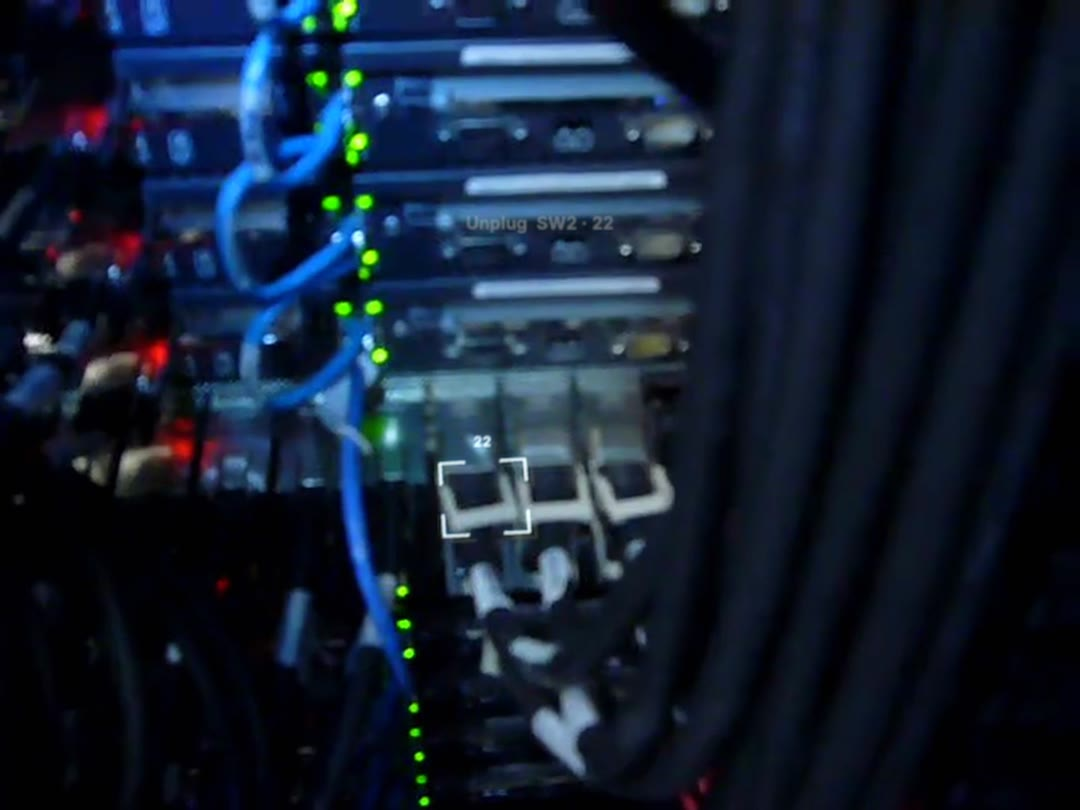
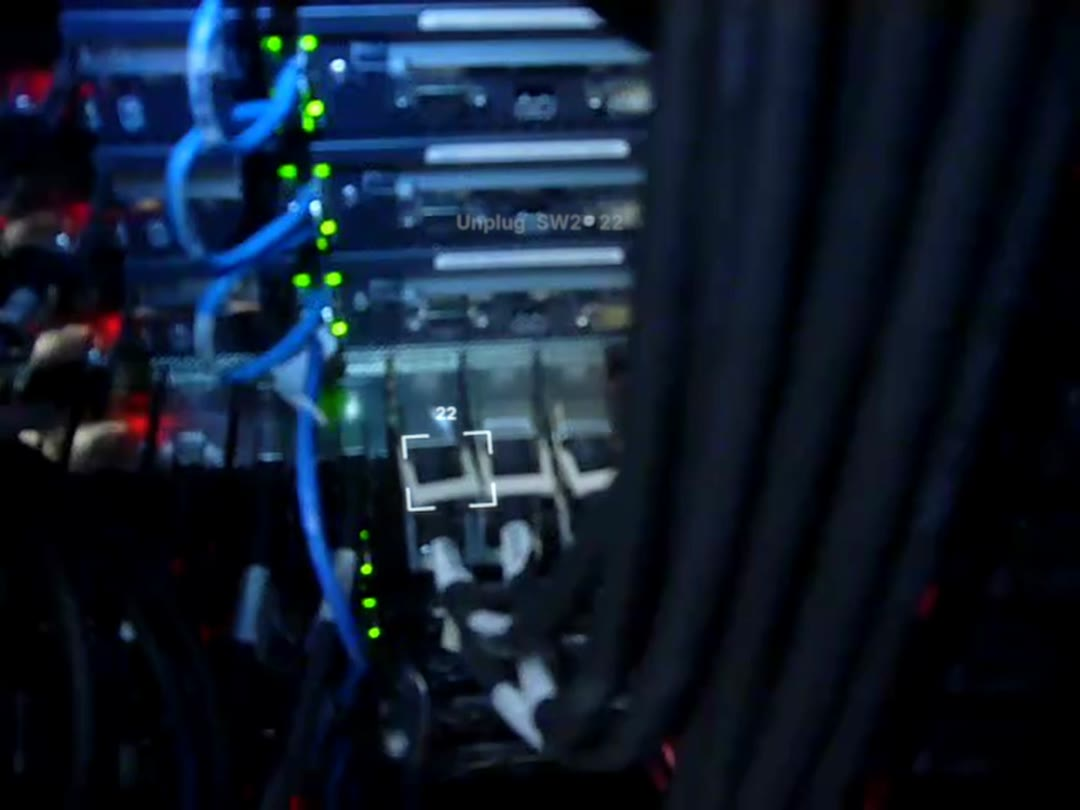
AR cabling sim: fixes from the second review pass
Step-aside timer runs from target lock, not line onset; a verified
step's line stays aside; new targets wait for the previous confirmation
to clear (no overlap); ghost 1.2% linear; visor veil cut to ~0.2% of
scene mean; rainbow flare off for this scene; larger tags and line.

Claude-Session: https://claude.ai/code/session_015k1a4b5z1G8KLFE5QHDNGj

diff --git a/docs/arhud-dc/arhud_dc/render.py b/docs/arhud-dc/arhud_dc/render.py
@@ -162,21 +162,27 @@ class Renderer:
         ly = y0 + (y1 - y0) * self.cfg.get("line_y", 0.1)
         for ln in lines:
             level = ln["level"]
-            if ln["target"] is not None:
+            if ln["target"] in targets:
                 # once its target has been locked in view for a moment, the line steps aside: the brackets say it
-                level *= 1.0 - 0.85 * HUD.smoothstep(LINE_HIDE, LINE_HIDE + 0.5, ln["since"]) * self.locked(ln["target"], i)
+                lock = self.lock_time(ln["target"], i, targets[ln["target"]]["since"])
+                level *= 1.0 - 0.85 * HUD.smoothstep(LINE_HIDE, LINE_HIDE + 0.5, lock)
+            elif ln["verified"]:
+                level *= 0.15   # done and its confirmation gone: stay aside until the next step
             self._line(head, ln["e"], level, ((x0 + x1) / 2, ly))
         return world, head, vel
 
-    def locked(self, name, i, window=12):
-        """Fraction of the last `window` frames in which a port was tracked and inside the display's field."""
+    def lock_time(self, name, i, since):
+        """Seconds the port has been continuously tracked and inside the display's field (since its target began)."""
         p = self.sc.ports[name]
         Hs = self.Hs[p["plane"]]
         n = 0
-        for j in range(max(0, i - window + 1), i + 1):
-            if j < len(Hs) and Hs[j] is not None and self.disp.inside(_warp(Hs[j], p["quad"]).mean(axis=0)):
-                n += 1
-        return n / window
+        limit = int(min(max(since, 0.0), LINE_HIDE + 0.6) * self.fps)
+        while n < limit and i - n >= 0:
+            j = i - n
+            if j >= len(Hs) or Hs[j] is None or not self.disp.inside(_warp(Hs[j], p["quad"]).mean(axis=0)):
+                break
+            n += 1
+        return n / self.fps
 
     def _line(self, layer, e, a, at):
         if a <= 0.0:

diff --git a/docs/arhud-dc/arhud_dc/scene.py b/docs/arhud-dc/arhud_dc/scene.py
@@ -79,8 +79,12 @@ class Scene:
             if e["t"] > t:
                 break
             if "target" in e:
-                targets[e["target"]] = {"label": e.get("label", ""), "since": t - e["t"], "done": None, "note": "",
-                                        "clear": 1.0}
+                # a new target waits for a confirmation it is pushing off to clear, so the two never overlap
+                busy = any(st["done"] is not None and st["done"] - (t - e["t"]) <= CONFIRM + FADE
+                           for st in targets.values())
+                delay = NEXT_CLEAR if busy else 0.0
+                targets[e["target"]] = {"label": e.get("label", ""), "since": t - e["t"] - delay, "done": None,
+                                        "note": "", "clear": 1.0}
             elif "done" in e and e["done"] in targets:
                 st = targets[e["done"]]
                 st["done"] = t - e["t"]
@@ -104,7 +108,8 @@ class Scene:
             level *= 1.0 - (1.0 - VERIFIED_DIM) * _smooth((t - done_t) / 0.2)
         if "hold" in e:
             level *= 1.0 - _smooth((t - e["t"] - e["hold"]) / 0.4)
-        return {"e": e, "level": max(0.0, level), "since": t - e["t"], "target": target}
+        return {"e": e, "level": max(0.0, level), "since": t - e["t"], "target": target,
+                "verified": done_t is not None}
 
 
 def _smooth(x):

diff --git a/docs/arhud-dc/arhud_dc/optics.py b/docs/arhud-dc/arhud_dc/optics.py
@@ -50,7 +50,8 @@ class Display:
         self.rect = (cx - hw, cy - hh, cx + hw, cy + hh)
         self.c = (cx, cy)
         self.gain = cfg.get("gain", 1.1)
-        gx, gy, gg = cfg.get("ghost_deg", [0.45, 0.35, 0.035])
+        # 1.2 % in linear light is already ~10 % in display code values: enough to see, not enough to double text
+        gx, gy, gg = cfg.get("ghost_deg", [0.45, 0.35, 0.012])
         self.ghost = (gx * self.ppd, gy * self.ppd, gg)
         self.dispersion = cfg.get("dispersion", 0.0016)
         self.defocus = cfg.get("defocus_px", 0.6)
@@ -59,7 +60,7 @@ class Display:
         self.noise = cfg.get("shot_noise", 0.012)
         self.shutter = cfg.get("shutter", 0.5)
         # the visor's veil scales with the light around: nothing in a dark aisle, a visible haze in a lit one
-        self.lift = np.array(cfg.get("visor_lift", [0.009, 0.010, 0.0125]), np.float32)
+        self.lift = np.array(cfg.get("visor_lift", [0.002, 0.0022, 0.0028]), np.float32)
         # the camera that filmed the world also filmed the display: its native resolution and 4:2:0 chroma
         self.native = cfg.get("native_size")
         self.chroma_blur = cfg.get("chroma_blur_px", 0.0)

diff --git a/docs/arhud-dc/README.md b/docs/arhud-dc/README.md
@@ -40,6 +40,15 @@ The video went through an independent frame-by-frame review with three lenses: o
 - three event times were corrected
 - port 24 got its own reference frame, to remove a 15 px drift
 
+A second, fresh review of the revised render confirmed all of these and found a few more, which are fixed too:
+
+- the line's step-aside timer now runs from when the target locks in view, not from when the line appears
+- the rainbow flare is off
+- the ghost was lowered
+- a new target now waits the 0.15 s for the previous confirmation to clear
+- tags and the line are slightly larger
+- the veil was cut again
+
 ## The HUD
 
 At most four things are ever on screen, and usually just the brackets and their tag:
@@ -64,14 +73,14 @@ The design follows the in-situ guidance literature: world-registered cues beat i
 The headset modelled is a binocular diffractive-waveguide display of the HoloLens 2 / Orion class, with a 44° × 28° field of view by default.
 
 - **Field of view.** The image exists only inside the display's field, which is much smaller than the camera's. Its edge is never drawn: content fades over the last ~1° and is cut there. With a phone or GoPro-linear camera, the display covers roughly the middle half of the frame.
-- **Additive light.** The display can only add light. Black is transparent, and the world behind is never dimmed. The marks pop against black switch faces and wash out against a lit white cold aisle. The visor adds a faint veil in proportion to the light around (about 1% of the scene's mean, so nearly nothing in a dark rack) and tints the world very slightly.
+- **Additive light.** The display can only add light. Black is transparent, and the world behind is never dimmed. The marks pop against black switch faces and wash out against a lit white cold aisle. The visor adds a faint veil in proportion to the light around (about 0.2% of the scene's mean: a code value or two over black in a lit aisle, nothing in a dark rack) and tints the world very slightly.
 - **Waveguide flaws.** Each is a few percent and fixed to the display, not the world:
   - colour drifts across the field in broad magenta, cyan and green lobes
   - the corners are about 30% dimmer than the centre
   - lateral colour puts red and blue a fraction of a pixel apart
-  - a ghost image sits about 0.6° off at 3.5%
+  - a ghost image sits about 0.6° off at 1.2% (in linear light; that is already about 10% in display code values)
   - a tight glow and a wide, low halo (σ ≈ 1°) surround bright strokes
-  - the gratings smear the overhead LED troffers into faint rainbow streaks inside the field
+  - the gratings smear bright light sources outside the line of sight, such as overhead LED troffers, into faint rainbow streaks inside the field. This is off in the decabling scene (`"flare": {"gain": 0}`), because the rack's lit faceplates turned it into smudges
 - **Focus.** The virtual image sits at about 2 m while the hands work at 0.5 m, so with the camera focused on the rack the HUD is slightly soft.
 - **Registration.** World-locked marks are drawn from the tracked pose, minus a few milliseconds of uncorrected render-to-photon latency, plus sub-pixel tremor. They sit still when the head is still and trail slightly in quick turns, as on real headsets. Hands and cables do not hide the marks: a see-through display draws on top of everything, and that is part of what makes it look real.
 - **The camera.** The HUD's light is resampled down to the source camera's pixel grid (`native_size`, 640 × 480 here) and back up the way the footage was, and its chroma is blurred as 4:2:0 recording would. That keeps it from being the sharpest thing in the frame. World-locked marks get the footage's full-shutter motion blur, with velocity taken as a central difference over the neighbouring frames. The camera's auto-exposure follows the scene: in a dim aisle it opens up and the HUD reads brighter, and panning onto a bright aisle dims it (about 0.4 s lag). The display's own ambient-light sensor works the other way and dims the display in the dark, so the scene uses a weak coupling (`exposure_k` 0.15) and `gain` 0.95 for this dark rack. That keeps the strokes reading as translucent light rather than white paint. World-locked marks get the same motion blur as the footage. Shot noise is added to the display's light, and a soft shoulder lets bright strokes clip toward white the way a sensor does.
